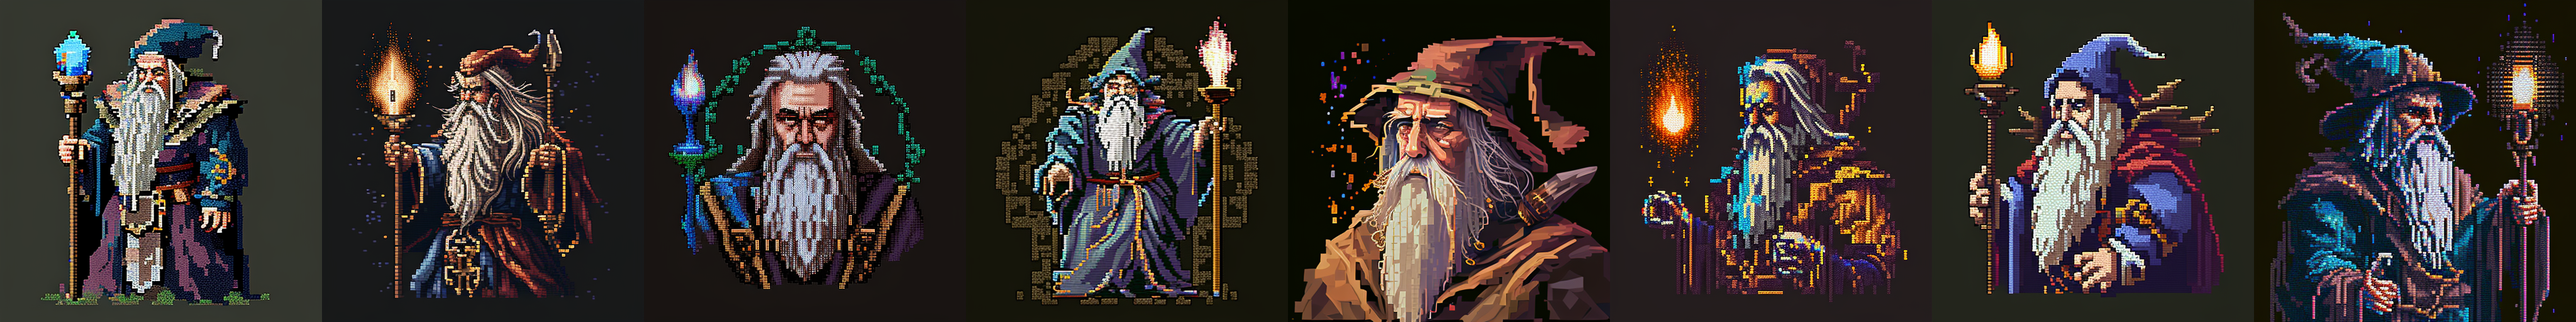
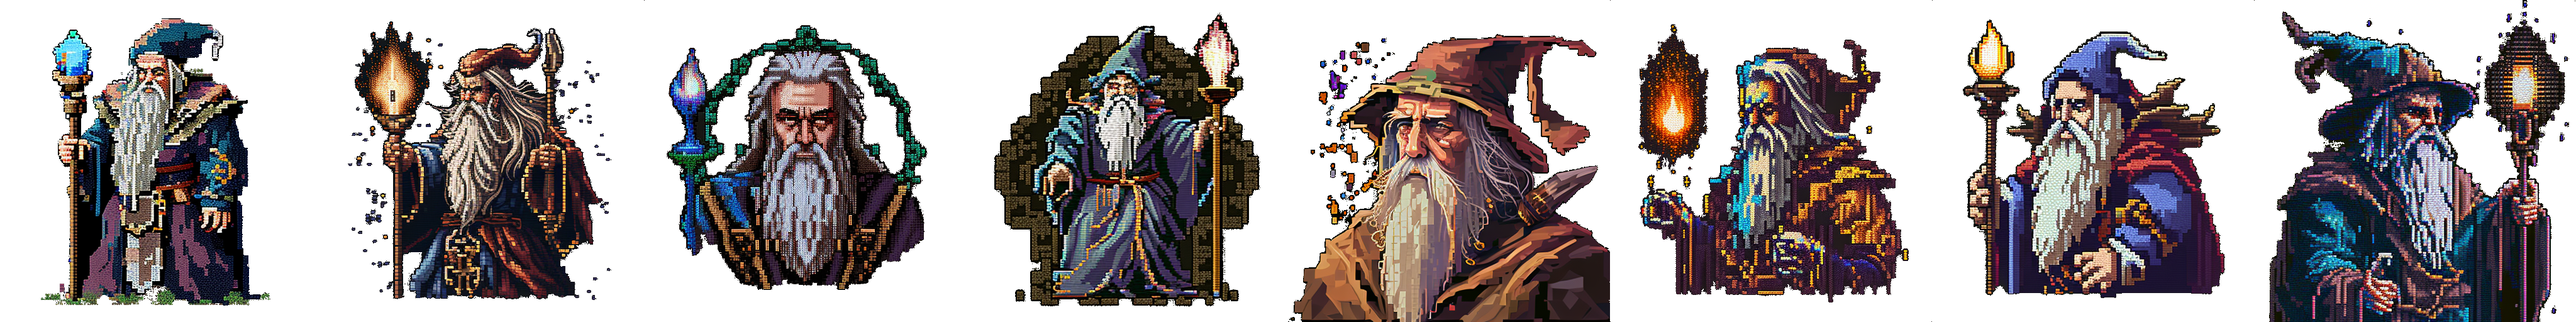
Added tag component. Replaced cursor, stat panel, with tag. fixed portraits in stat panel

diff --git a/Dungineer/Systems/UISystem.cs b/Dungineer/Systems/UISystem.cs
@@ -9,24 +9,32 @@ namespace Dungineer.Systems;
 
 public class UISystem : BaseSystem
 {
-    Player player;
+    //private readonly SpriteBatch sb;
     public UISystem(BaseGame game) : base(game)
     {
-
+        //sb = new SpriteBatch(game.GraphicsDevice);
     }
 
     public override void Update(GameTime gameTime, IEnumerable<Entity> entities)
     {
-        player = entities.FirstOrDefault(t => t.Components.Any(c => c is Player))?.GetComponent<Player>();
+        var player = entities.FirstOrDefault(t => t.Components.Any(c => c is Player))?.GetComponent<Player>();
         if (player == null) return;
 
         foreach (var ent in entities)
         {            
-            if (ent.GetComponent<StatPanel>() is not null)
+            if (ent.HasTag("Stat Panel"))
             {
                 if (ent.GetComponent<Text>() is Text text)
                 {
                     text.Content = player.Name + " \\n" + player.Health + "/" + player.MaxHealth;
+                }
+            }
+
+            if (ent.HasTag("Portrait"))
+            {
+                if (ent.GetComponent<Sprite>() is Sprite spr)
+                {
+                    spr.Source = new Rectangle(player.PotraitIndex * 512, 0, 512, 512);
                 }
             }
         }
@@ -34,6 +42,26 @@ public class UISystem : BaseSystem
 
     public override void Draw(GameTime gameTime, IEnumerable<Entity> entities)
     {
+        //sb.Begin(
+        //    sortMode: SpriteSortMode.FrontToBack,
+        //    blendState: BlendState.NonPremultiplied,
+        //    samplerState: SamplerState.PointClamp,
+        //    depthStencilState: DepthStencilState.DepthRead,
+        //    rasterizerState: RasterizerState.CullCounterClockwise,
+        //    effect: null,
+        //    transformMatrix: null); //camera here todo... probably no ui camera needed actually
 
+        //var player = entities.FirstOrDefault(t => t.Components.Any(c => c is Player))?.GetComponent<Player>();
+        //if (player == null) return;
+
+        //foreach (var ent in entities)
+        //{
+        //    if (ent.GetComponent<StatPanel>() is StatPanel statPanel)
+        //    {
+        //        sb.Draw()
+        //    }
+        //}
+
+        //sb.End();
     }
 }

diff --git a/Dungineer/Prefabs/PlayScenePrefab.cs b/Dungineer/Prefabs/PlayScenePrefab.cs
@@ -55,12 +55,17 @@ public class PlayScenePrefab : IPrefab<List<Entity>>
             Position = new Vector2(2,2),
             Size = new Vector2(game.Width/5 - 2, game.Height - 4)
         };
+
+        //background
         var stSpr = new Sprite(statEntity)
         {
             Source = new Rectangle(0,0,1,1),
             TextureName = "_pixel",
             Tint = new Color(20,20,20),             
+            Offset = Vector2.Zero,
         };
+
+        //text
         var stTxt = new Text(statEntity)
         {
             Content = string.Empty,
@@ -68,12 +73,35 @@ public class PlayScenePrefab : IPrefab<List<Entity>>
             FontName = "consolas_12",
             Offset = new Vector2(2, 2)
         };
-        var stat = new StatPanel(statEntity);
+
+        var stat = new Tag(statEntity) 
+        { 
+            Value = "Stat Panel" 
+        };
 
         ents.Add(statEntity);
 
-        //terminal
-        
+
+        //portrait
+        var potrait = new Entity(game);
+        var porTran = new Transform(potrait)
+        {
+            Position = new Vector2(128,4),
+            Layer = 0.7f,
+            Size = new Vector2(128f, 128f),
+        };
+        var porSpr = new Sprite(potrait)
+        {
+            Offset = Vector2.Zero,
+            Source = new Rectangle(0, 0, 512, 512),
+            TextureName = "WizardPortraits_512",
+            Tint = Color.White,
+        };
+        var tag = new Tag(potrait)
+        {
+            Value = "Portrait"
+        };
+        ents.Add(potrait);
 
         return ents;
     }

diff --git a/Dungineer/Prefabs/CharacterSelectScenePrefab.cs b/Dungineer/Prefabs/CharacterSelectScenePrefab.cs
@@ -57,7 +57,8 @@ public class CharacterSelectScenePrefab : IPrefab<List<Entity>>
                 new Rectangle(10 + (256 * i), 10, 256, 256),
                 wizardName,
                 wizardDescription,
-                descText);
+                descText,
+                randWiz[i]);
             entities.Add(ent);
         }
 
@@ -106,7 +107,7 @@ public class CharacterSelectScenePrefab : IPrefab<List<Entity>>
     }
 
 
-    private Entity AddCharcterChoice(BaseGame game, string textureName, Rectangle source, Rectangle bounds, string wizardName, string wizardDesc, Text descText)
+    private Entity AddCharcterChoice(BaseGame game, string textureName, Rectangle source, Rectangle bounds, string wizardName, string wizardDesc, Text descText, int potraitIndex)
     {
 
         //wizard card
@@ -124,6 +125,7 @@ public class CharacterSelectScenePrefab : IPrefab<List<Entity>>
             TextureName = textureName,
             Tint = Color.White,
             Source = source,
+            Offset = Vector2.Zero,
         };
         
         //mouse input
@@ -149,8 +151,8 @@ public class CharacterSelectScenePrefab : IPrefab<List<Entity>>
                     new PlayerPrefab(
                         wizardName, 
                         wizardDesc, 
-                        textureName, 
-                        game.Rand.Next(8))
+                        potraitIndex, 
+                        potraitIndex)
                     .Instantiate(game));
             }
         };

diff --git a/Dungineer/Prefabs/PlayerPrefab.cs b/Dungineer/Prefabs/PlayerPrefab.cs
@@ -9,13 +9,13 @@ public class PlayerPrefab : IPrefab<Entity>
 {
     private string name;
     private string description;
-    private string portraitTextureName;
+    private int portraitIndex;
     private int spriteIndex;
-    public PlayerPrefab(string name, string description, string portraitTextureName, int spriteIndex)
+    public PlayerPrefab(string name, string description, int portraitIndex, int spriteIndex)
     {
         this.name = name;
         this.description = description;
-        this.portraitTextureName = portraitTextureName;
+        this.portraitIndex = portraitIndex;
         this.spriteIndex = spriteIndex;
     }
     public Entity Instantiate(BaseGame game)
@@ -33,7 +33,7 @@ public class PlayerPrefab : IPrefab<Entity>
             MaxHealth = 20,
             Name = name,
             Description = description,
-            PortraitTextureName = portraitTextureName
+            PotraitIndex = portraitIndex
         };
         var spr = new Sprite(ent)
         {

diff --git a/Engine/Systems/SpriteRenderSystem.cs b/Engine/Systems/SpriteRenderSystem.cs
@@ -1,4 +1,5 @@
-using Engine.Components;
+using Dungineer.Components;
+using Engine.Components;
 using Microsoft.Xna.Framework;
 using Microsoft.Xna.Framework.Content;
 using Microsoft.Xna.Framework.Graphics;
@@ -47,12 +48,15 @@ public class SpriteRenderSystem : BaseSystem
             if (transform == null || !transform.IsActive)
                 continue;
 
+            var bounds = transform.Bounds;
+
             foreach (var sprite in entity.GetComponents<Sprite>().Where(s=>s.IsActive))
             {
-                var bounds = transform.Bounds;
+                var tempBounds = new Rectangle(bounds.Location + sprite.Offset.ToPoint(), bounds.Size);
+
                 sb.Draw(
                     textures[sprite.TextureName],
-                    bounds,
+                    tempBounds,
                     sprite.Source,
                     sprite.Tint,
                     0f,

diff --git a/Engine/Systems/MouseInputSystem.cs b/Engine/Systems/MouseInputSystem.cs
@@ -33,7 +33,7 @@ public class MouseInputSystem : BaseSystem
             var bounds = transform.Bounds;
 
 
-            if (entity.GetComponent<Cursor>() is Cursor cursor && cursor.IsActive) //todo, move out of engine, or move cursor into engine
+            if (entity.HasTag("Cursor")) //not checking if active, disable it visually 
             {
                 transform.Position = mouseState.Position.ToVector2();
             }

diff --git a/Engine/Entity.cs b/Engine/Entity.cs
@@ -1,4 +1,5 @@
-using System.Collections.Generic;
+using Engine.Components;
+using System.Collections.Generic;
 using System.Linq;
 
 namespace Engine;
@@ -19,6 +20,8 @@ public class Entity
 
     public IEnumerable<T> GetComponents<T>() where T : Component =>
         Components.OfType<T>();
+
+    public bool HasTag(string val) => Components.Any(t => t is Tag tag && tag.Value == val);
     
 }
 

diff --git a/Dungineer/Prefabs/CursorPrefab.cs b/Dungineer/Prefabs/CursorPrefab.cs
@@ -22,8 +22,12 @@ public class CursorPrefab : IPrefab<Entity>
             TextureName = "cursor_16",
             Source = new Rectangle(0,0, 16, 16),
             Tint = Color.White,
+            Offset = Vector2.Zero
         };
-        var cursor = new Cursor(entity);
+        var cursor = new Tag(entity)
+        {
+            Value = "Cursor"
+        };
 
 
         return entity;

diff --git a/Dungineer/Components/Player.cs b/Dungineer/Components/Player.cs
@@ -8,7 +8,7 @@ public class Player : Component
     public string Description { get; set; } 
     public int Health { get; set; }
     public int MaxHealth { get; set; }
-    public string PortraitTextureName { get; set; }
+    public int PotraitIndex { get; set; }
     public Player(Entity owner, bool isActive = true) : base(owner, isActive)
     {
     }

diff --git a/Dungineer/Prefabs/MenuScenePrefab.cs b/Dungineer/Prefabs/MenuScenePrefab.cs
@@ -52,6 +52,7 @@ public class MenuScenePrefab : IPrefab<List<Entity>>
             TextureName = "WizardPortraits_512",
             Tint = Color.White,
             Source = new Rectangle(game.Rand.Next(7) * 512, 0, 512, 512),
+            Offset = Vector2.Zero,
         };
         ents.Add(portrait);
 

diff --git a/Engine/Components/Sprite.cs b/Engine/Components/Sprite.cs
@@ -6,6 +6,7 @@ public class Sprite : Component
 {
     public string TextureName { get; set; }
     public Color Tint { get; set; }    
+    public Vector2 Offset { get; set; }
     public Rectangle? Source { get; set; }
     public Sprite(Entity owner, bool isActive = true) : base(owner, isActive) { }
 }

diff --git a/Engine/Components/Tag.cs b/Engine/Components/Tag.cs
@@ -1,0 +1,13 @@
+using System;
+using System.Collections.Generic;
+using System.Text;
+
+namespace Engine.Components;
+
+public class Tag : Component
+{
+    public string Value { get; set; }
+    public Tag(Entity owner, bool isActive = true) : base(owner, isActive)
+    {
+    }
+}
